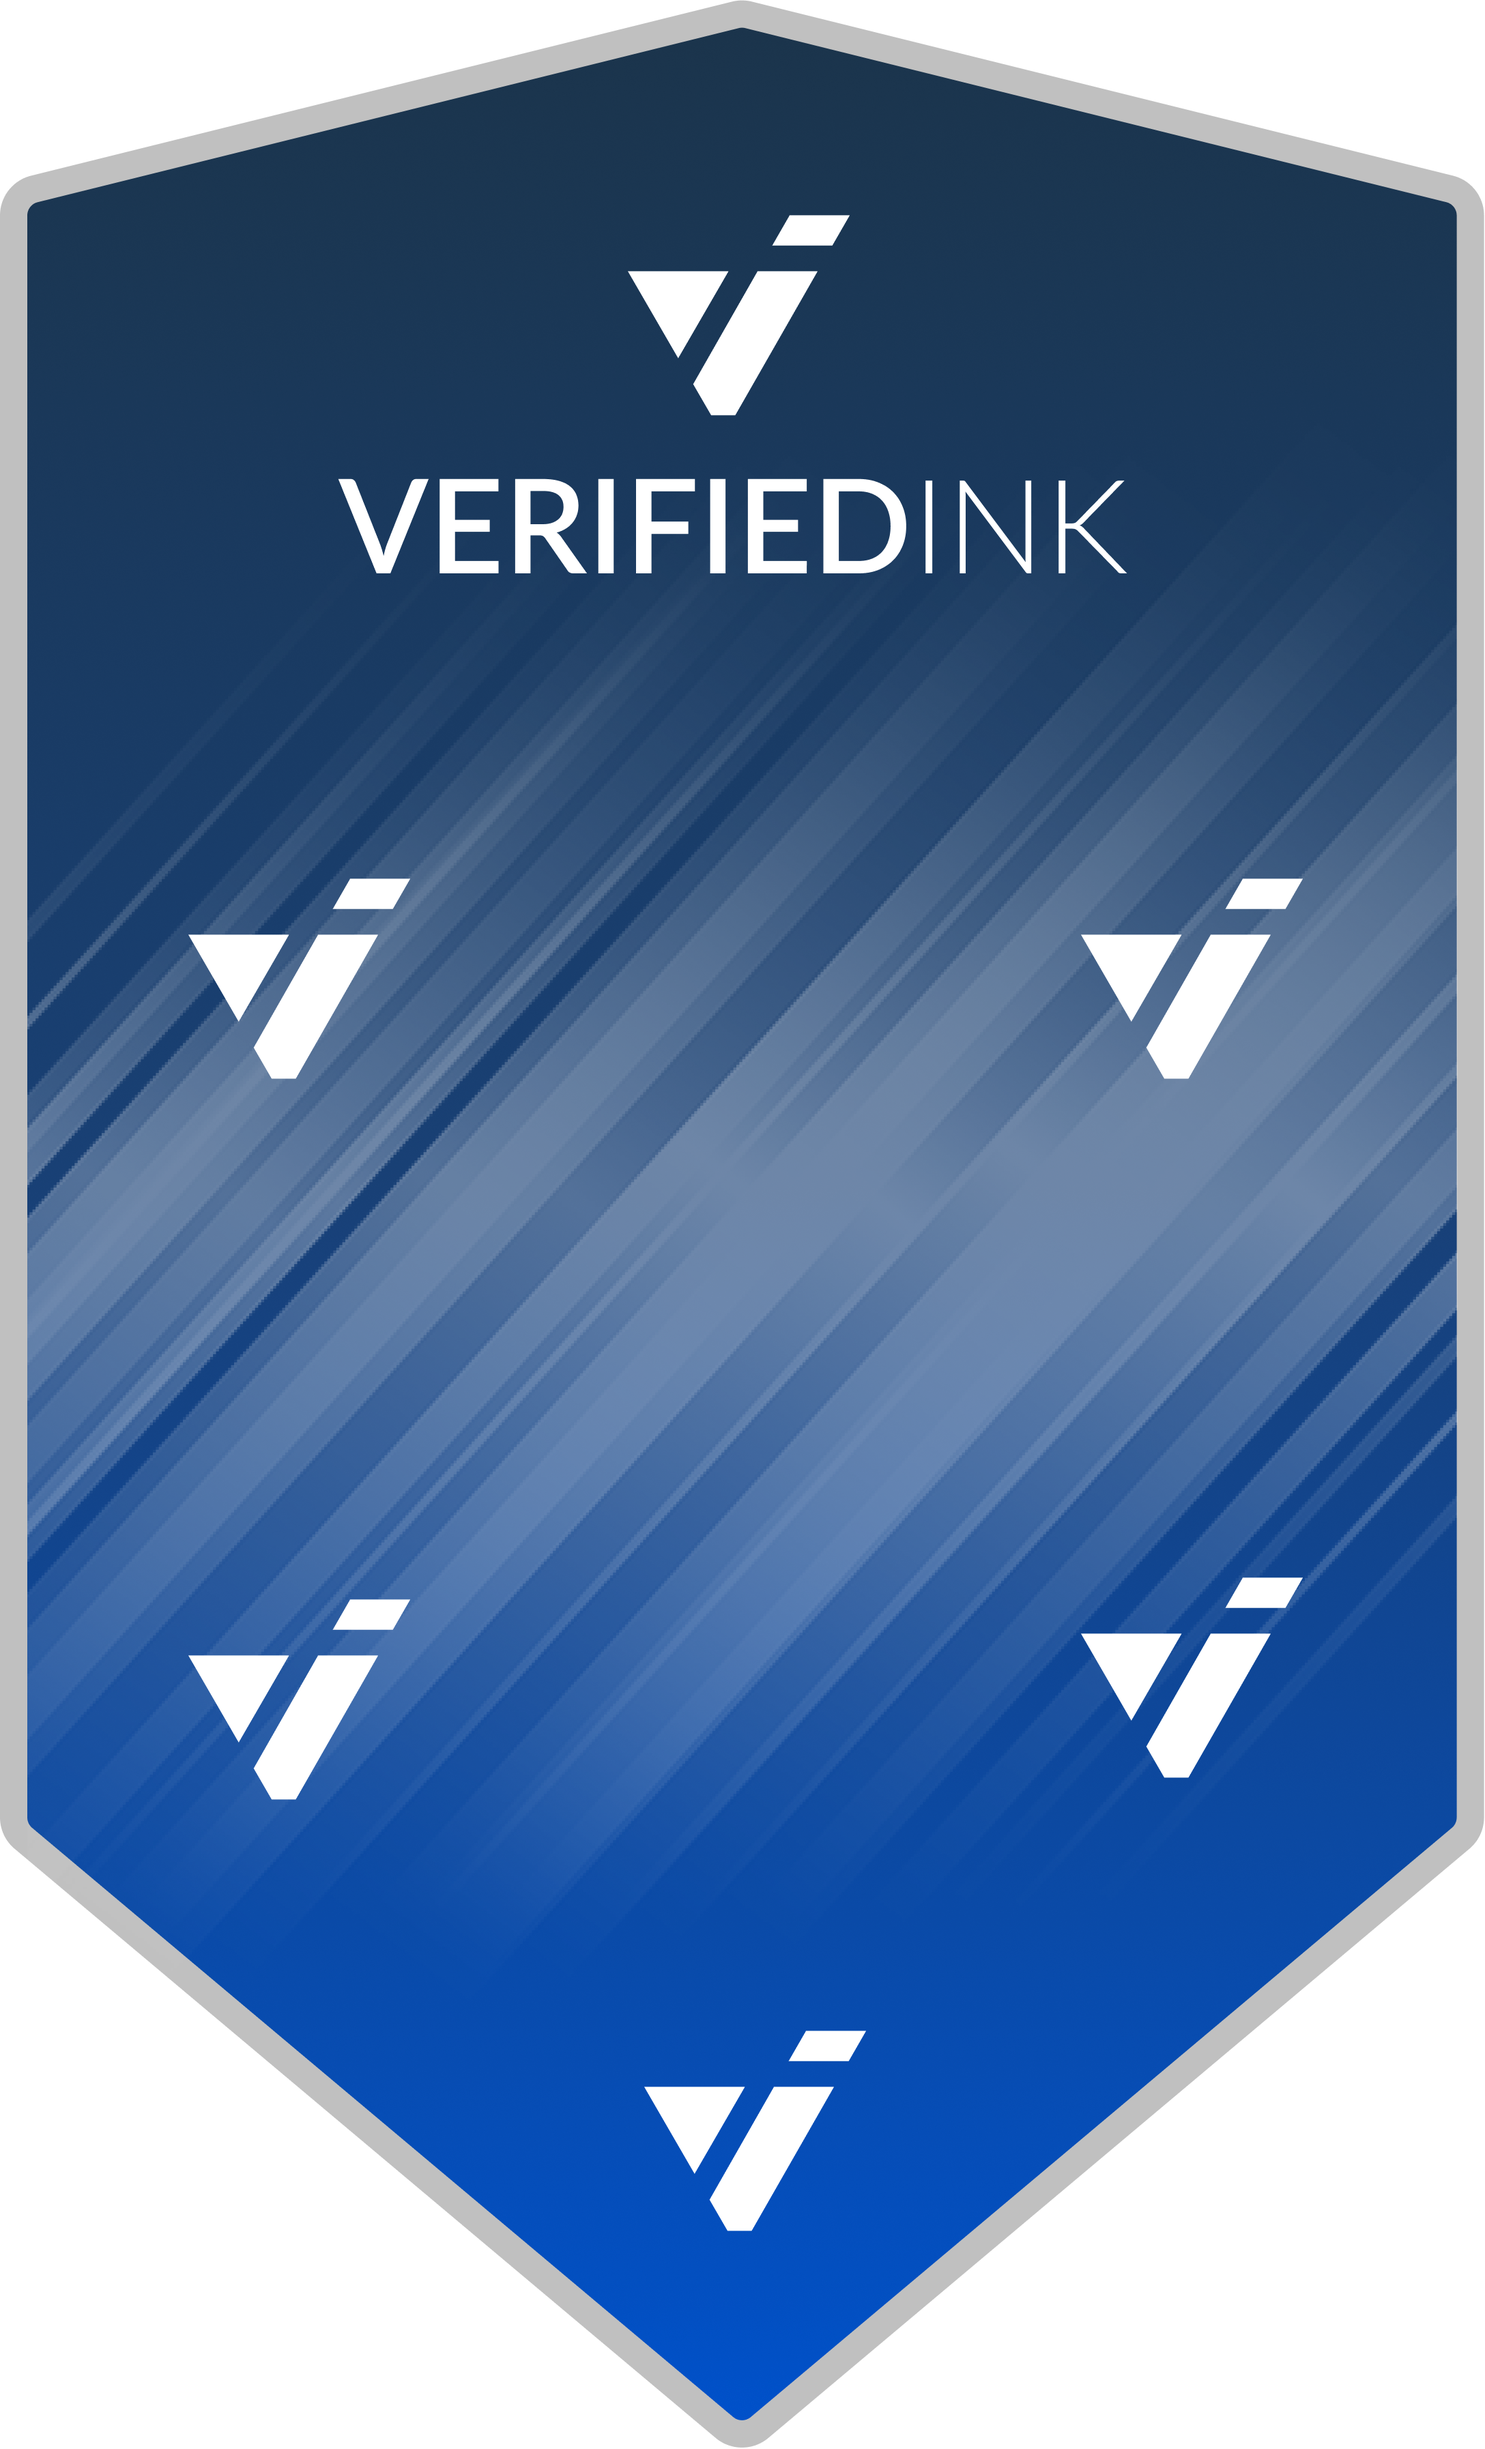
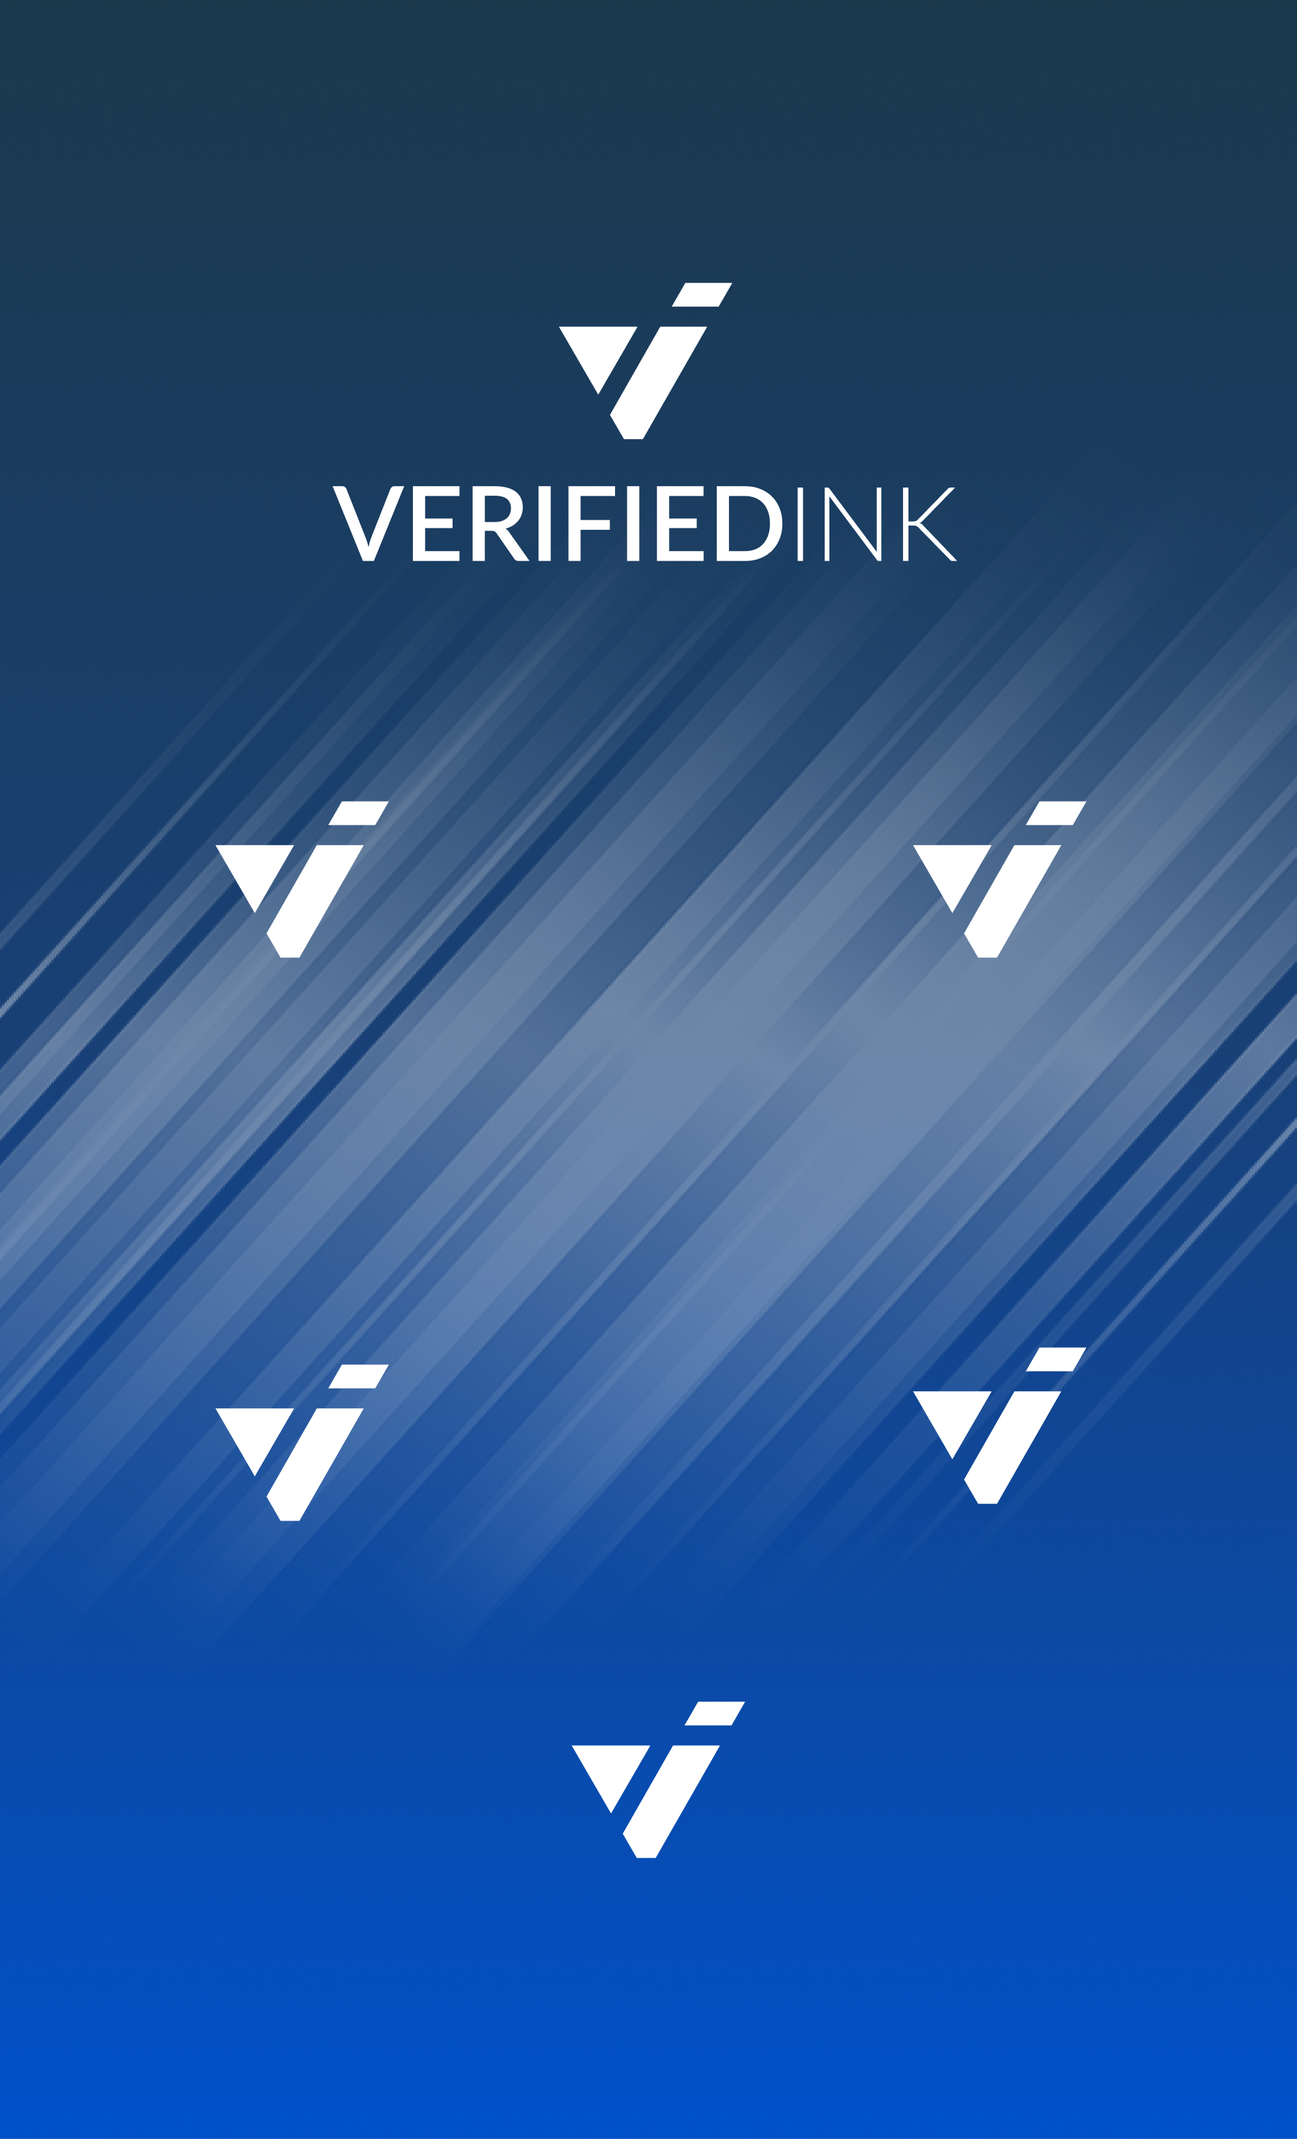
New AR Card Generation

diff --git a/pages/screenshot/qr.tsx b/pages/screenshot/qr.tsx
@@ -7,22 +7,22 @@ const Wrapper = styled.div`
   // background: white !important;
   background: #c0c0c0 !important;
   margin: 0px !important;
-  padding: 40px !important;
+  // padding: 40px !important;
   position: relative;
-  width: 626px;
-  height: 980px;
+  width: 500px;
+  height: 824.47px;
 
   #react-qrcode-logo {
     position: relative;
-    top: 377px;
-    left: 168px;
+    top: 357px;
+    left: 167px;
     opacity: 0.75;
     backdrop-filter: blur(12px) brightness(0.85);
   }
 
   .target {
     position: absolute;
-    height: 900px;
+    width: 500px;
   }
 
   .text{
@@ -33,11 +33,11 @@ const Wrapper = styled.div`
   }
   .id{
     position: absolute;
-    top: 813px;
-    left: 416px;
+    top: 525px;
+    left: 219px;
     opacity: 0.7;
     transform-origin: top left;
-    transform: rotate(-40deg);
+    // transform: rotate(-40deg);
     // backdrop-filter: blur(12px);
     
   }
@@ -63,7 +63,7 @@ const Screenshot: React.FC = () => {
     <Wrapper id="card">
       <img className="target" src={back ? '/ar/source/target-back.png' : '/ar/source/target-front.png'}></img>
       {back ? null :
-        <QRCode size={200} bgColor="transparent" fgColor="white" value={`https://verifiedink.us/ar?ar_id=${id}`} qrStyle="dots" />
+        <QRCode size={150} bgColor="transparent" fgColor="white" value={`https://verifiedink.us/ar?ar_id=${id}`} qrStyle="dots" />
       }
       <text className="text">Scan Me</text>
       {back ? null : <text className="id">No. {id}</text>}
